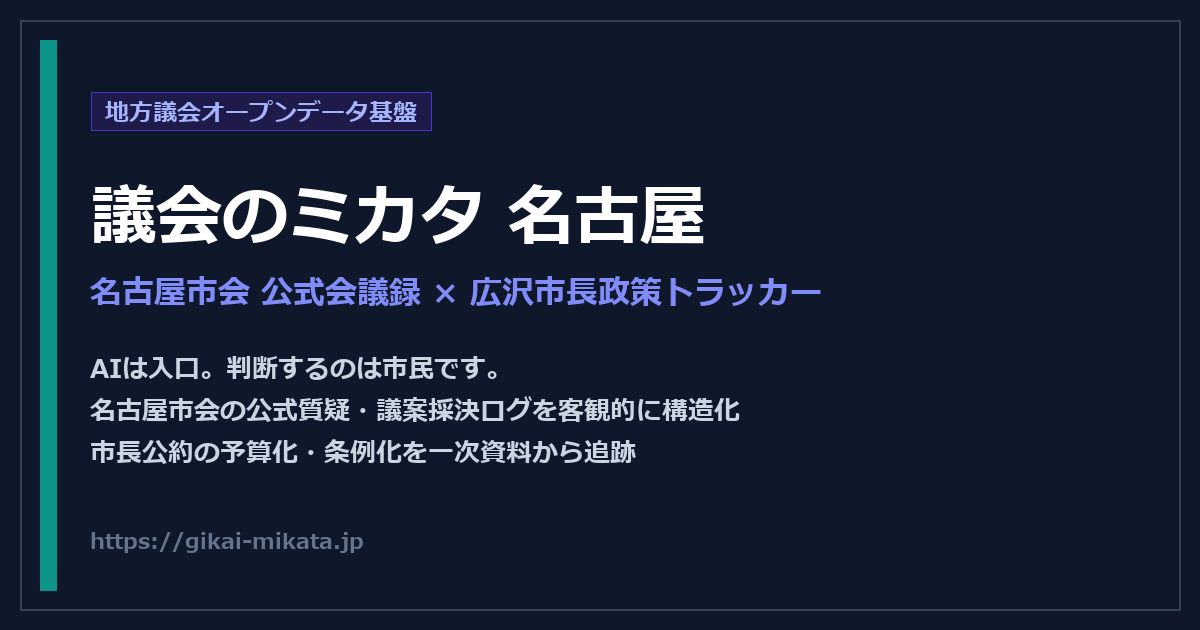
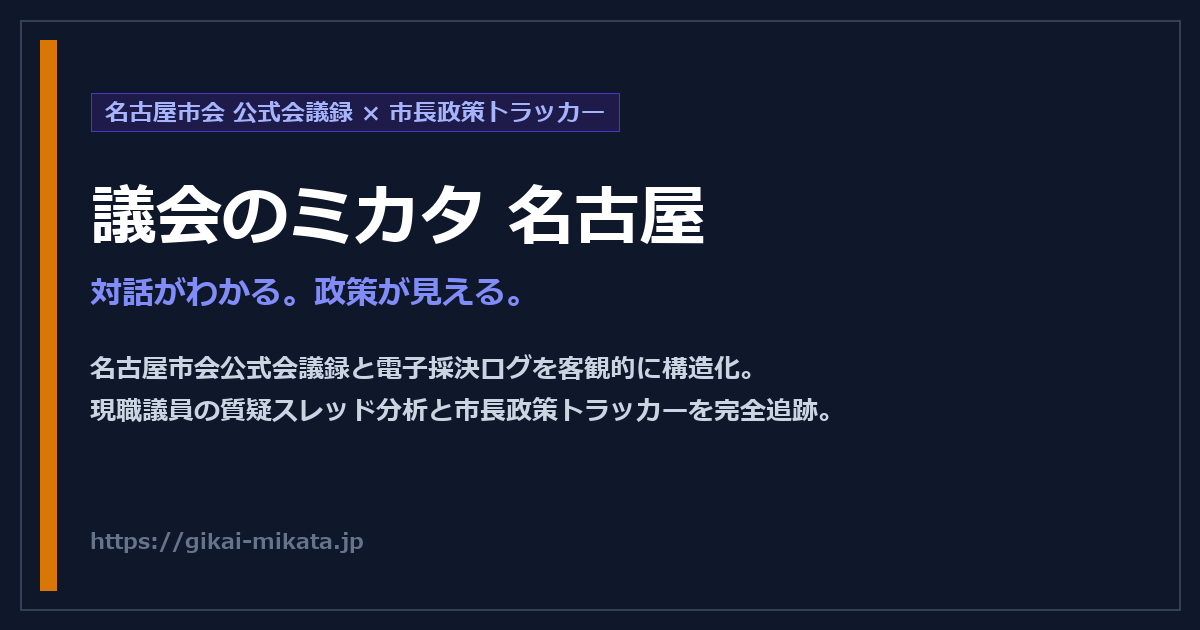
fix(ogp): remove personal mayor names to make metadata sustainable

Changed region(s): [[0.0308, 0.0603, 0.7092, 0.9349], [0.0925, 0.1206, 0.5242, 0.2111]]

diff --git a/data-pipeline/generate_ogp.py b/data-pipeline/generate_ogp.py
@@ -1,11 +1,16 @@
 import os
 from PIL import Image, ImageDraw, ImageFont
 
-# 出力先ディレクトリ
-output_dir = os.path.abspath(os.path.join(os.path.dirname(__file__), "frontend", "public"))
+# 出力先ディレクトリ (data-pipeline から親ディレクトリを経由して frontend/public を解決)
+base_dir = os.path.dirname(os.path.abspath(__file__))
+if os.path.basename(base_dir) == "data-pipeline":
+    output_dir = os.path.abspath(os.path.join(base_dir, "..", "frontend", "public"))
+else:
+    output_dir = os.path.abspath(os.path.join(base_dir, "frontend", "public"))
+
 os.makedirs(output_dir, exist_ok=True)
 
-# フォントの設定 (Windows標準フォント「メイリオ ボールド」)
+# フォントの設定 (Windows標準フォント)
 font_path = "C:\\Windows\\Fonts\\meiryob.ttc"
 if not os.path.exists(font_path):
     font_path = "C:\\Windows\\Fonts\\msgothic.ttc"
@@ -59,7 +64,7 @@ def create_ogp(badge_text, title_text, sub_text, desc_lines, filename, accent_co
 
 # 1. メイン総合 OGP (ogp.png)
 create_ogp(
-    badge_text="京都・大阪・名古屋 市会公開データ × 一次資料検証基盤",
+    badge_text="5大政令市（京都・大阪・名古屋・横浜・神戸）公開データ × 一次資料検証基盤",
     title_text="議会のミカタ",
     sub_text="AIは入口。判断するのは市民です。",
     desc_lines=[
@@ -73,12 +78,12 @@ create_ogp(
 
 # 2. 京都専用 OGP (ogp-kyoto.png)
 create_ogp(
-    badge_text="京都市会 公式会議録 × 松井市長政策トラッカー",
+    badge_text="京都市会 公式会議録 × 市長政策トラッカー",
     title_text="議会のミカタ 京都",
     sub_text="対話がわかる。政策が見える。",
     desc_lines=[
         "京都市会12万件超の発言記録と会派賛否ログを構造化。",
-        "「新京都戦略」に基づく主要14施策の予算・条例・マイルストーンを可視化。"
+        "基本計画に基づく主要施策の予算・条例・マイルストーン進捗を可視化。"
     ],
     filename="ogp-kyoto.png",
     accent_color="#4f46e5"
@@ -86,12 +91,12 @@ create_ogp(
 
 # 3. 大阪専用 OGP (ogp-osaka.png)
 create_ogp(
-    badge_text="大阪市会 公式会議録 × 横山市長政策トラッカー",
+    badge_text="大阪市会 公式会議録 × 市長政策トラッカー",
     title_text="議会のミカタ 大阪",
     sub_text="対話がわかる。政策が見える。",
     desc_lines=[
         "大阪市会会議録発言記録と議案採決ログを客観的に構造化。",
-        "マニフェスト24重点公約の予算措置・関連条例・成立執行進捗を完全追跡。"
+        "マニフェスト重点公約の予算措置・関連条例・成立執行進捗を完全追跡。"
     ],
     filename="ogp-osaka.png",
     accent_color="#0284c7"
@@ -99,13 +104,39 @@ create_ogp(
 
 # 4. 名古屋専用 OGP (ogp-nagoya.png)
 create_ogp(
-    badge_text="名古屋市会 公式会議録 × 広沢市長政策トラッカー",
+    badge_text="名古屋市会 公式会議録 × 市長政策トラッカー",
     title_text="議会のミカタ 名古屋",
     sub_text="対話がわかる。政策が見える。",
     desc_lines=[
         "名古屋市会公式会議録と電子採決ログを客観的に構造化。",
-        "現職68議員の質疑スレッド分析と広沢市長政策トラッカーを完全追跡。"
+        "現職議員の質疑スレッド分析と市長政策トラッカーを完全追跡。"
     ],
     filename="ogp-nagoya.png",
-    accent_color="#d97706"  # 名古屋城・金鯱アンバー
+    accent_color="#d97706"
+)
+
+# 5. 横浜専用 OGP (ogp-yokohama.png)
+create_ogp(
+    badge_text="横浜市会 公式会議録 × 市長政策トラッカー",
+    title_text="議会のミカタ 横浜",
+    sub_text="対話がわかる。政策が見える。",
+    desc_lines=[
+        "横浜市会会議録発言記録と常任委員会・本会議採決ログを客観的に構造化。",
+        "市政重点計画・重要政策の予算・条例・執行状況を完全追跡。"
+    ],
+    filename="ogp-yokohama.png",
+    accent_color="#2563eb"
+)
+
+# 6. 神戸専用 OGP (ogp-kobe.png)
+create_ogp(
+    badge_text="神戸市会 公式会議録 × 市長政策トラッカー",
+    title_text="議会のミカタ 神戸",
+    sub_text="対話がわかる。政策が見える。",
+    desc_lines=[
+        "神戸市会本会議・予算決算委員会会議録と採決ログを客観的に構造化。",
+        "基本計画に基づく重点施策の予算計上・マイルストーンを可視化。"
+    ],
+    filename="ogp-kobe.png",
+    accent_color="#0d9488"
 )
